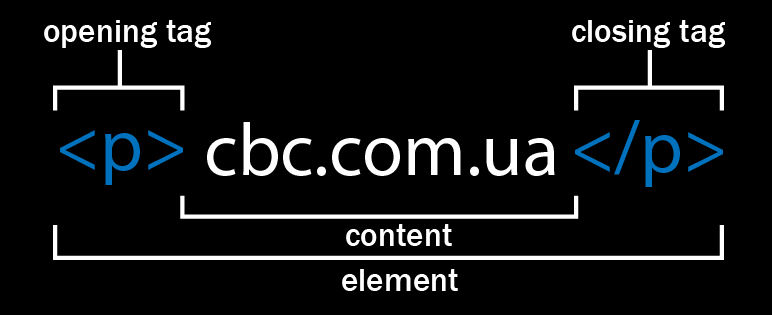
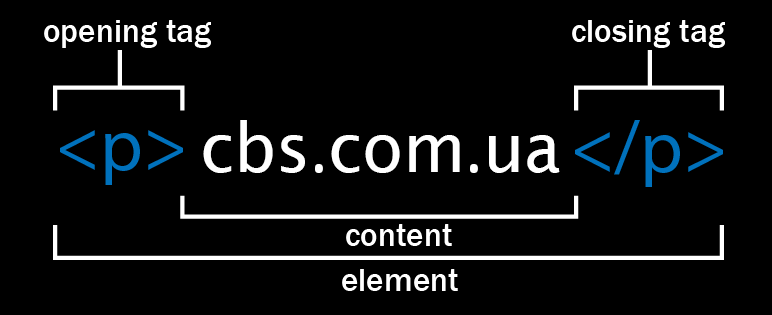
правки и дополнения
замена картинки на правильную, работа с семантической разметкой страницы

Changed region(s): [[0.2487, 0.3714, 0.7461, 0.5714]]

diff --git a/lesson1/info_page.html b/lesson1/info_page.html
@@ -22,62 +22,64 @@
         <h2>Выучите основные термины и понятия, рассмотренные на уроке.</h2>
     </header>
 
-    <section>
-        <article>
-            <p>
-                <b>HTML</b> – (от англ. <b><i>HyperText Markup Language</i></b> – язык разметки гипертекста) –
-                стандартизированный язык
-                разметки документов во Всемирной паутине. Большинство веб-страниц содержат описание разметки на
-                языке HTML (или XHTML). Язык HTML интерпретируется браузерами; полученный в результате
-                интерпретации форматированный текст отображается на экране монитора компьютера или мобильного
-                устройства.
-            </p>
+    <main>
+        <section>
+            <article>
+                <p>
+                    <b>HTML</b> – (от англ. <b><i>HyperText Markup Language</i></b> – язык разметки гипертекста) –
+                    стандартизированный язык
+                    разметки документов во Всемирной паутине. Большинство веб-страниц содержат описание разметки на
+                    языке HTML (или XHTML). Язык HTML интерпретируется браузерами; полученный в результате
+                    интерпретации форматированный текст отображается на экране монитора компьютера или мобильного
+                    устройства.
+                </p>
 
-            <h3><mark>Тег и его атрибуты:</mark></h3>
+                <h3><mark>Тег и его атрибуты:</mark></h3>
 
-            <p>
-                <b>Тег (дескриптор)</b> – элемент языка разметки гипертекста. Текст, содержащийся между
-                начальным и
-                конечным тегом, отображается и размещается в соответствии со свойствами, указанными в начальном
-                теге.
-            </p>
+                <p>
+                    <b>Тег (дескриптор)</b> – элемент языка разметки гипертекста. Текст, содержащийся между
+                    начальным и
+                    конечным тегом, отображается и размещается в соответствии со свойствами, указанными в начальном
+                    теге.
+                </p>
 
-            <div>
-                <img class="picture_shadow" src="img/tag example.png" alt="tag example picture.png" title="tag example picture">
-            </div>
+                <figure>
+                    <img class="picture_shadow" src="img/tag example.png" alt="иллюстрация создания тега" title="tag example picture">
+                </figure>
 
-            <p>
-                <i>Opening tag</i> – состоит из имени элемента, который заключен в угловые скобки. Указывает где
-                начинается элемент. <br>
-                <i>Closing tag</i> – то же самое что и открывающий тег, только содержащий косую черту. Указывает
-                где элемент заканчивается. <br>
-                <i>Content</i> – содержимое тега, которое будет отображаться пользователю. <br>
-                <i>Element</i> – открывающий тег, контент и закрывающий тег представляют собой цельный элемент HTML
-                разметки.
-            </p> <br>
+                <p>
+                    <i>Opening tag</i> – состоит из имени элемента, который заключен в угловые скобки. Указывает где
+                    начинается элемент. <br>
+                    <i>Closing tag</i> – то же самое что и открывающий тег, только содержащий косую черту. Указывает
+                    где элемент заканчивается. <br>
+                    <i>Content</i> – содержимое тега, которое будет отображаться пользователю. <br>
+                    <i>Element</i> – открывающий тег, контент и закрывающий тег представляют собой цельный элемент HTML
+                    разметки.
+                </p> <br>
 
-            <p>
-                <b>Атрибуты</b> – элементы языка разметки, которые содержат дополнительную информацию
-                об элементе.
-            </p>
+                <p>
+                    <b>Атрибуты</b> – это элементы языка разметки, которые содержат дополнительную информацию
+                    об элементе.
+                </p>
 
-            <div>
-                <img class="picture_shadow" src="img/tag atribute example.png" alt="tag atribute example.png" title="tag atribute example">
-            </div>
+                <figure>
+                    <img class="picture_shadow" src="img/tag atribute example.png" alt="иллюстрация создания атрибутов для тега"
+                        title="tag atribute example">
+                </figure>
 
-            <p>Атрибут должен иметь:</p>
+                <p>Атрибут должен иметь:</p>
 
-            <ul class="list_whiteSpace">
-                <li>Пробел между атрибутом и именем элемента.</li>
-                <li>Имя атрибута и следующий за ним знак равенства.</li>
-                <li>Значение атрибута, заключенное в кавычки.</li>
-            </ul> 
-        </article> <br>
+                <ul class="list_whiteSpace">
+                    <li>Пробел между атрибутом и именем элемента.</li>
+                    <li>Имя атрибута и следующий за ним знак равенства.</li>
+                    <li>Значение атрибута, заключенное в кавычки.</li>
+                </ul>
+            </article> <br>
 
-        <article>
-            <h3><mark>Структура HTML страницы:</mark></h3>
+            <article>
+                <h3><mark>Структура HTML страницы:</mark></h3>
 
-            <code>
+                <code>
                  &lt; html &gt; <br>
                  &nbsp;&lt; head &gt; <br>
                  &nbsp;&nbsp;... ...  <br>
@@ -88,105 +90,110 @@
                  &nbsp;&lt;/body &gt; <br>
             </code>
 
-            <p>
-                Тег <span class="blue">&lt; html &gt;</span> является контейнером, который заключает в
-                себе все содержимое веб страницы, включая теги
-                <span class="blue">&lt; head &gt;</span> и <span class="blue">&lt; body &gt;</span>.
-            </p>
+                <p>
+                    Тег <span class="blue">&lt; html &gt;</span> является контейнером, который заключает в
+                    себе все содержимое веб страницы, включая теги
+                    <span class="blue">&lt; head &gt;</span> и <span class="blue">&lt; body &gt;</span>.
+                </p>
 
-            <p>
-                Тег <span class="blue">&lt; head &gt;</span> содержит в себе информацию о странице. В
-                нем располагаются метатеги, ссылки на подключаемые
-                модули.
-            </p>
+                <p>
+                    Тег <span class="blue">&lt; head &gt;</span> содержит в себе информацию о странице. В
+                    нем располагаются метатеги, ссылки на подключаемые
+                    модули.
+                </p>
 
-            <p>
-                Тег <span class="blue">&lt; body &gt;</span> является контейнером для всего
-                содержимого, которое будет отображено пользователю.
-            </p> <br>
+                <p>
+                    Тег <span class="blue">&lt; body &gt;</span> является контейнером для всего
+                    содержимого, которое будет отображено пользователю.
+                </p> <br>
 
-            <ul class="list_whiteSpace">
-                <li>Все теги и их атрибуты должны быть набраны в нижнем регистре.</li>
-                <li>Значения любых атрибутов необходимо заключать в кавычки.</li>
-                <li>Требуется закрывать все теги, даже такие, которым не сопоставлен закрывающий тег.</li>
-                <li>Должна соблюдаться правильная вложенность тегов.</li>
-                <li>Нельзя использовать сокращенные атрибуты тегов.</li>
-                <li>Вместо атрибута <span class='red'>name</span> следует указывать <span class='red'>id<span>.</li>
-            </ul> 
-        </article> <br>
+                <ul class="list_whiteSpace">
+                    <li>Все теги и их атрибуты должны быть набраны в нижнем регистре.</li>
+                    <li>Значения любых атрибутов необходимо заключать в кавычки.</li>
+                    <li>Требуется закрывать все теги, даже такие, которым не сопоставлен закрывающий тег.</li>
+                    <li>Должна соблюдаться правильная вложенность тегов.</li>
+                    <li>Нельзя использовать сокращенные атрибуты тегов.</li>
+                    <li>Вместо атрибута <span class='red'>name</span> следует указывать <span class='red'>id<span>.</li>
+                </ul>
+            </article> <br>
 
-        <article>
-            <h3><mark>Блочные элементы:</mark></h3>
+            <article>
+                <h3><mark>Блочные элементы:</mark></h3>
 
-            <p>
-                Блочным называется элемент, который имеет форму прямоугольника. Такой элемент занимает всю
-                доступную ширину, высота элемента определяется его содержимым, и он всегда начинается с новой
-                строки. К блочным элементам относятся контейнеры
-                <span class="blue"> &lt; div &gt; &lt; p &gt; &lt; h1 &gt;</span> ... <span class="blue"> &lt; h6 &gt;
-                </span>. <br>
-                Блочные элементы можно вкладывать друг в друга, а также можно в блочный элемент вложить строчные
-                элементы. <br>
-                Ширина блока вычисляется автоматически и занимает все доступное пространство, то есть 100%. Если
-                поместить один тег <span class="blue">&lt; div &gt;</div></span> внутрь другого, то ширина внутреннего
-                тега начинает рассчитываться
-                относительно его родителя.
-            </p>
+                <p>
+                    Блочным называется элемент, который имеет форму прямоугольника. Такой элемент занимает всю
+                    доступную ширину, высота элемента определяется его содержимым, и он всегда начинается с новой
+                    строки. К блочным элементам относятся контейнеры
+                    <span class="blue"> &lt; div &gt; &lt; p &gt; &lt; h1 &gt;</span> ... <span class="blue"> &lt; h6
+                        &gt;
+                    </span>. <br>
+                    Блочные элементы можно вкладывать друг в друга, а также можно в блочный элемент вложить строчные
+                    элементы. <br>
+                    Ширина блока вычисляется автоматически и занимает все доступное пространство, то есть 100%. Если
+                    поместить один тег <span class="blue">&lt; div &gt;</div></span> внутрь другого, то ширина
+                    внутреннего
+                    тега начинает рассчитываться
+                    относительно его родителя.
+                </p>
 
-            <p>Ширина блока состоит из следующих параметров:</p>
-            <ul class="list_whiteSpace">
-                <li>Ширина самого блока (ширина задается свойством <span class="red">width</span>, а высота через <span
-                        class="red">height</span>).</li>
-                <li>Внутренних отступов (вокруг контента идут поля (<span class="red">padding</span>), они создают
-                    пустое пространство от контента до внутреннего края границ).</li>
-                <li>Границы блока (<span class="red">border</span>).</li>
-                <li>Внешних отступов (<span class="red">margin</span> невидимое пустое пространство от внешнего края
-                    границ).</li>
-            </ul>
+                <p>Ширина блока состоит из следующих параметров:</p>
+                <ul class="list_whiteSpace">
+                    <li>Ширина самого блока (ширина задается свойством <span class="red">width</span>, а высота через
+                        <span class="red">height</span>).</li>
+                    <li>Внутренних отступов (вокруг контента идут поля (<span class="red">padding</span>), они создают
+                        пустое пространство от контента до внутреннего края границ).</li>
+                    <li>Границы блока (<span class="red">border</span>).</li>
+                    <li>Внешних отступов (<span class="red">margin</span> невидимое пустое пространство от внешнего
+                        края
+                        границ).</li>
+                </ul>
 
-            <div>
-                <img src="http://htmlbook.ru/files/images/layout2/3-01.png" alt="block example.png" title="На рисунке показан блок в виде набора этих свойств"><br>
-                <cite>Доп материалы использовались с сайта - <a href="http://htmlbook.ru/metki/bloki">http://htmlbook.ru/metki/bloki</a></cite>
-            </div>
+                <div>
+                    <img src="http://htmlbook.ru/files/images/layout2/3-01.png" alt="иллюстрация блока с отступами и границами"
+                        title="На рисунке показан блок в виде набора этих свойств"><br>
+                    <cite>Доп материалы использовались с сайта - <a href="http://htmlbook.ru/metki/bloki">http://htmlbook.ru/metki/bloki</a></cite>
+                </div>
 
-            <p>
-                Высота у блочных элементов, вычисляется так же как и ширина. Если высота у блочного элемента не
-                задана явно, то вычисляется исходя из объёма содержимого.
-            </p>
+                <p>
+                    Высота у блочных элементов, вычисляется так же как и ширина. Если высота у блочного элемента не
+                    задана явно, то вычисляется исходя из объёма содержимого.
+                </p>
 
-            <p>
-                При задании фона блочному элементу, заливается область, определяемая шириной, высотой и
-                внутренними отступами (полями).
-            </p>
+                <p>
+                    При задании фона блочному элементу, заливается область, определяемая шириной, высотой и
+                    внутренними отступами (полями).
+                </p>
 
-            <p>При задании рамки, следует учитывать, что некоторые браузеры устанавливают заливку по внешнему
-                краю границы, а некоторые – по внутреннему
-            </p>
+                <p>При задании рамки, следует учитывать, что некоторые браузеры устанавливают заливку по внешнему
+                    краю границы, а некоторые – по внутреннему
+                </p>
 
-            <figure>
-                <img src="img/block example.png" alt="block example.png">
-            </figure>
-        </article> <br>
+                <figure>
+                    <img src="img/block example.png" alt="иллюстрация примеров блока с границами в разных браузерах">
+                </figure>
+            </article> <br>
 
-        <article>
-            <h3>
-                <mark>Строчные элементы:</mark>
-            </h3>
-            <p>
-                Строчными называются элементы, которые являются частью другого элемента и используются, как
-                правило, для изменения части текста либо его логического форматирования. К строчным элементам
-                можно отнести: <span class="blue">&lt; a &gt; &lt; span &gt; &lt; code &gt;</a></span>. <br>
-                Также строчные элементы могут применяться для изменения положения слоев.
-            </p>
+            <article>
+                <h3>
+                    <mark>Строчные элементы:</mark>
+                </h3>
+                <p>
+                    Строчными называются элементы, которые являются частью другого элемента и используются, как
+                    правило, для изменения части текста либо его логического форматирования. К строчным элементам
+                    можно отнести: <span class="blue">&lt; a &gt; &lt; span &gt; &lt; code &gt;</a></span>. <br>
+                    Также строчные элементы могут применяться для изменения положения слоев.
+                </p>
 
-            <p>Разница между блочными и строчными элементами:</p>
+                <p>Разница между блочными и строчными элементами:</p>
 
-            <ul class="list_whiteSpace">
-                <li>Строчные элементы могут содержать только данные и другие строчные элементы.</li>
-                <li>Блочные размещаются с новой строки, строчные же такого эффекта не имеют.</li>
-                <li>Ширина строчных элементов определяется по их содержимому, отступам и границам.</li>
-            </ul>
-        </article>
-    </section>
+                <ul class="list_whiteSpace">
+                    <li>Строчные элементы могут содержать только данные и другие строчные элементы.</li>
+                    <li>Блочные размещаются с новой строки, строчные же такого эффекта не имеют.</li>
+                    <li>Ширина строчных элементов определяется по их содержимому, отступам и границам.</li>
+                </ul>
+            </article>
+        </section>
+    </main>
 
     <footer>
         <nav>

diff --git a/lesson1/bonus_task.html b/lesson1/bonus_task.html
@@ -1,12 +1,11 @@
 <!DOCTYPE html>
-
-<html lang="en" xmlns="http://www.w3.org/1999/xhtml">
+<html lang="ru">
 
 <head>
-    <meta charset="utf-8" />
-    <meta http-equiv="X-UA-Compatible" content="IE=edge">
+    <meta charset="UTF-8">
+    <meta name="viewport" content="width=device-width, initial-scale=1.0">
+    <meta http-equiv="X-UA-Compatible" content="ie=edge">
     <title>Дополнительное задание.</title>
-    <meta name="viewport" content="width=device-width, initial-scale=1">
     <link href="https://fonts.googleapis.com/css?family=Roboto+Condensed" rel="stylesheet">
     <link rel="stylesheet" type="text/css" href="css/lesson1.css" />
     <style>
